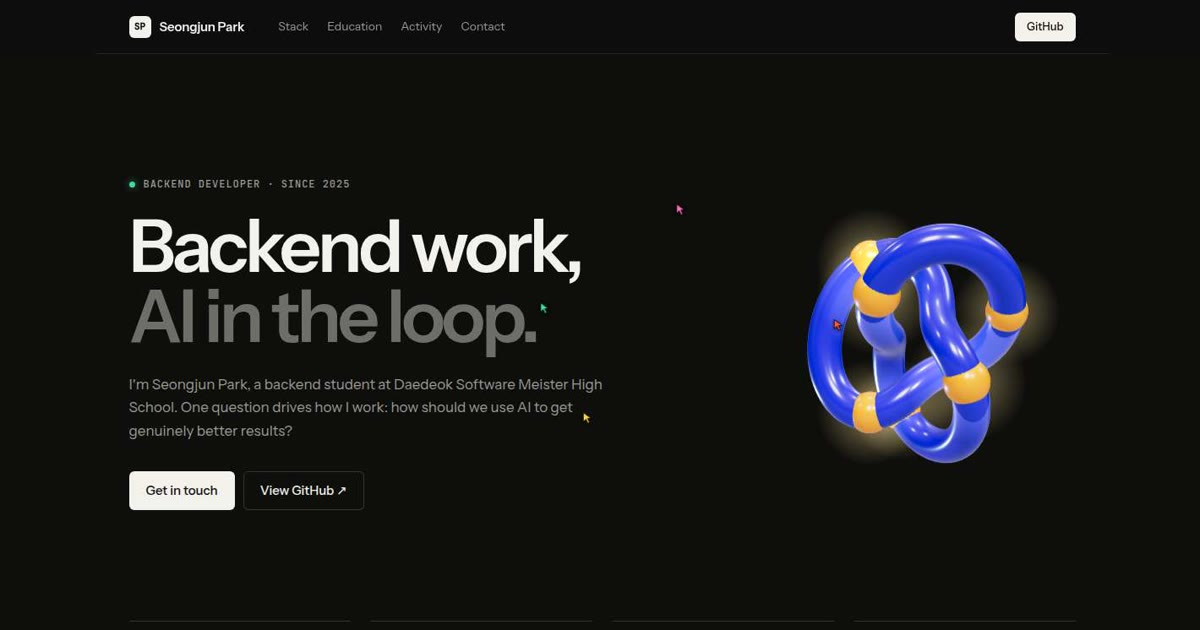
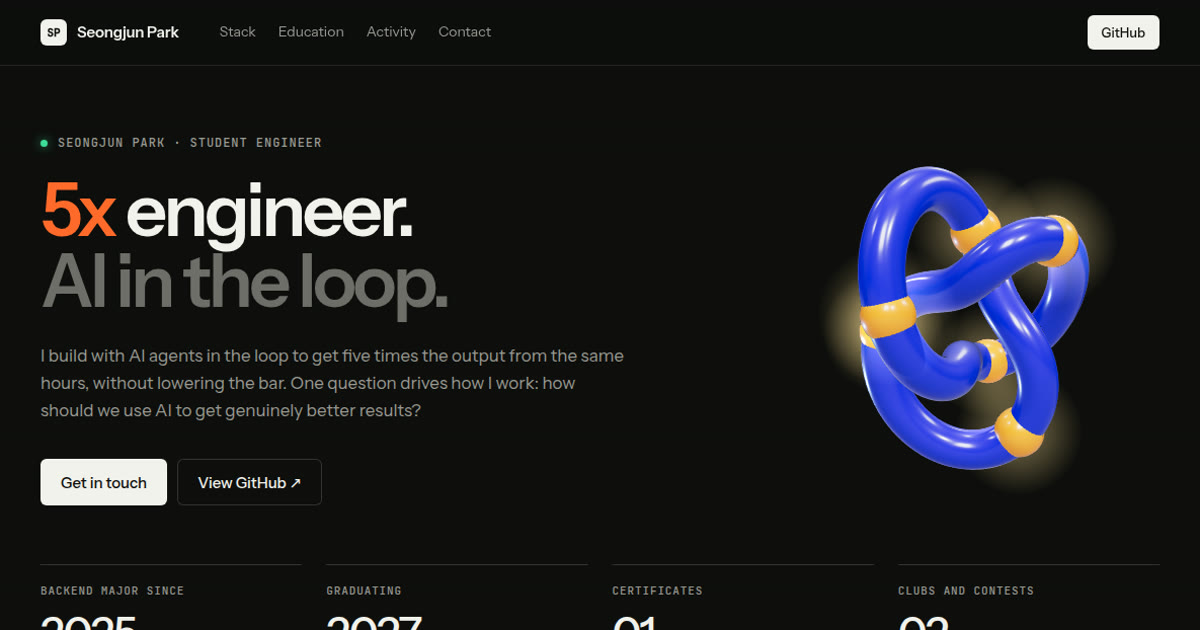
Hold each finished screen for 3s before scrolling; lead with '5x engineer' instead of 'backend developer'

diff --git a/index.html b/index.html
@@ -3,10 +3,10 @@
   <head>
     <meta charset="utf-8" />
     <meta name="viewport" content="width=device-width, initial-scale=1" />
-    <title>Seongjun Park · Backend Developer</title>
-    <meta name="description" content="Seongjun Park is a backend developer at Daedeok Software Meister High School who keeps asking how to use AI to get genuinely better results." />
+    <title>Seongjun Park · 5x Engineer</title>
+    <meta name="description" content="Seongjun Park is a 5x engineer: a student at Daedeok Software Meister High School who builds with AI agents in the loop to ship more, and better, than one person could alone." />
     <meta name="theme-color" content="#0e0e0d" />
-    <meta property="og:title" content="Seongjun Park · Backend Developer" />
+    <meta property="og:title" content="Seongjun Park · 5x Engineer" />
     <meta property="og:description" content="A portfolio that a swarm of cursor agents builds in front of you." />
     <meta property="og:type" content="website" />
     <meta property="og:url" content="https://seongj-un.github.io/" />
@@ -41,12 +41,12 @@
         <section class="hero" id="top" data-section="hero">
           <div class="wrap hero-grid">
             <div class="hero-copy">
-              <p class="eyebrow"><span class="dot" data-layer="block" data-label="dot"></span><span data-layer="type" data-label="p.eyebrow">Backend developer · since 2025</span></p>
+              <p class="eyebrow"><span class="dot" data-layer="block" data-label="dot"></span><span data-layer="type" data-label="p.eyebrow">Seongjun Park · student engineer</span></p>
               <h1 class="display">
-                <span class="line" data-layer="type" data-label="h1">Backend work,</span>
+                <span class="line" data-layer="type" data-label="h1"><span class="x5">5x</span> engineer.</span>
                 <span class="line dim" data-layer="type" data-label="h1">AI in the loop.</span>
               </h1>
-              <p class="lede" data-layer="sweep" data-label="p.lede">I'm Seongjun Park, a backend student at Daedeok Software Meister High School. One question drives how I work: how should we use AI to get genuinely better results?</p>
+              <p class="lede" data-layer="sweep" data-label="p.lede">I build with AI agents in the loop to get five times the output from the same hours, without lowering the bar. One question drives how I work: how should we use AI to get genuinely better results?</p>
               <div class="actions">
                 <a class="btn" href="#contact" data-layer="block" data-label="a.btn">Get in touch</a>
                 <a class="btn btn--ghost" href="https://github.com/seongj-un" target="_blank" rel="noopener" data-layer="block" data-label="a.btn">View GitHub ↗</a>
@@ -69,7 +69,7 @@
                 <p class="tag"><span class="tag-num" data-layer="type" data-label="span.tag">[01]</span><span data-layer="type" data-label="p.tag">Tech stack</span></p>
                 <h2 class="h2" id="stack-title"><span class="line" data-layer="type" data-label="h2">Tools I reach for</span><span class="line dim" data-layer="type" data-label="h2">when I build a service.</span></h2>
               </div>
-              <p class="sec-note" data-layer="sweep" data-label="p">The languages, frameworks and infrastructure I use to design, build and ship backend services.</p>
+              <p class="sec-note" data-layer="sweep" data-label="p">The languages, frameworks and infrastructure I use to design, build and ship services, with agents doing the legwork.</p>
             </div>
             <div class="cards">
               <article class="card" data-layer="frame" data-label="article.card" data-review><p class="card-k" data-layer="type" data-label="p">01 · Language</p><p class="card-v" data-layer="sweep" data-label="p">Java, Python</p></article>
@@ -140,7 +140,7 @@
             <div class="contact" data-layer="frame" data-label="section.contact">
               <div>
                 <p class="tag"><span class="tag-num" data-layer="type" data-label="span.tag">[04]</span><span data-layer="type" data-label="p.tag">Contact</span></p>
-                <h2 class="h2" id="contact-title"><span class="line" data-layer="type" data-label="h2">Have a backend problem</span><span class="line" data-layer="type" data-label="h2">worth thinking through?</span></h2>
+                <h2 class="h2" id="contact-title"><span class="line" data-layer="type" data-label="h2">Need something built,</span><span class="line" data-layer="type" data-label="h2">and built fast?</span></h2>
                 <p class="contact-note" data-layer="sweep" data-label="p">Email is the fastest way to reach me. I read everything and reply as soon as I can.</p>
               </div>
               <div class="contact-side">
@@ -160,7 +160,7 @@
           <div class="foot-grid" data-layer="rule" data-label="footer">
             <div>
               <p class="logo"><span class="logo-mark" data-layer="block" data-label="logo">SP</span><span data-layer="type" data-label="span">Seongjun Park</span></p>
-              <p class="foot-about" data-layer="sweep" data-label="p">Backend developer at Daedeok Software Meister High School, asking how AI can make the work better.</p>
+              <p class="foot-about" data-layer="sweep" data-label="p">5x engineer at Daedeok Software Meister High School, working with AI in the loop.</p>
             </div>
             <div>
               <p class="foot-k" data-layer="type" data-label="p">Sections</p>

diff --git a/src/builder.js b/src/builder.js
@@ -11,6 +11,8 @@
 const PALETTE = ['#f2f1ec', '#8fb8ff', '#f2f1ec', '#ffad85'];
 const ARROW = 'M1.5 1.5 L1.5 14 L5 10.6 L7.6 16 L10 15 L7.4 9.6 L12.4 9.6 Z';
 const PRI = { rule: 0, frame: 1, block: 2, type: 3, sweep: 4 };
+// how long a finished screen stays put before the director scrolls on
+const HOLD_MS = 3000;
 
 const sleep = (ms) => new Promise((r) => setTimeout(r, ms));
 const nextFrame = () => new Promise((r) => requestAnimationFrame(r));
@@ -399,6 +401,16 @@ export function createBuilder({ overlay, pill, page, count = 40, keep = 4, speed
   async function direct(run) {
     let current = null;
     let guide = null;
+    // pausable wait that ends early if the run is replaced or the visitor takes over scrolling
+    const hold = async (ms, r) => {
+      let left = ms;
+      while (left > 0 && alive(r) && auto) {
+        await gate();
+        const t = performance.now();
+        await sleep(Math.min(100, left));
+        left -= performance.now() - t;
+      }
+    };
     const closeSection = (sec) => {
       if (guide) { fade(guide, 500); guide = null; }
 
@@ -415,15 +427,23 @@ export function createBuilder({ overlay, pill, page, count = 40, keep = 4, speed
       let batch;
       if (auto) {
         const sec = sections.find((s) => rest.some((l) => s.contains(l)));
+        const own = rest.filter((l) => sec.contains(l)).sort((p, q) => docTop(p) - docTop(q));
+        const top = docTop(own[0]);
+        const fixedNav = sec.classList.contains('nav');
+        const needScroll = !fixedNav && (top < scrollY + navH() || top > scrollY + innerHeight - 140);
+        // let the visitor look at a finished screen before moving on
+        if (needScroll) {
+          if (inFlight.size) { await sleep(120); continue; }
+          await hold(HOLD_MS, run);
+          if (!alive(run)) return;
+          if (!auto) continue;
+        }
         if (sec !== current) {
           closeSection(current);
           current = sec;
           if (sec && !sec.classList.contains('nav')) guide = drawGuide(sec, run);
         }
-        const own = rest.filter((l) => sec.contains(l)).sort((p, q) => docTop(p) - docTop(q));
-        const top = docTop(own[0]);
-        const fixedNav = sec.classList.contains('nav');
-        if (!fixedNav && (top < scrollY + navH() || top > scrollY + innerHeight - 140)) {
+        if (needScroll) {
           await smoothScroll(top - navH() - 40, 750 * S, run);
           if (!alive(run)) return;
         }
@@ -454,7 +474,7 @@ export function createBuilder({ overlay, pill, page, count = 40, keep = 4, speed
     updatePill();
     disperse();
     if (natural && auto && run === runId) {
-      setTimeout(() => { if (!running) smoothScroll(0, 1500, -1); }, 900);
+      setTimeout(() => { if (!running) smoothScroll(0, 1500, -1); }, HOLD_MS);
     }
   }
 

diff --git a/src/style.css b/src/style.css
@@ -67,6 +67,7 @@ button { font: inherit; color: inherit; }
 .display { margin: 0 0 26px; font-weight: 600; font-size: clamp(46px, 6vw, 92px); line-height: 0.96; letter-spacing: -0.05em; }
 .line { display: block; }
 .dim { color: var(--dim); }
+.x5 { color: var(--accent); }
 .lede { margin: 0 0 34px; max-width: 34em; font-size: 17px; line-height: 1.6; color: var(--muted); text-wrap: pretty; }
 .actions { display: flex; gap: 10px; flex-wrap: wrap; }
 

diff --git a/README.md b/README.md
@@ -1,6 +1,6 @@
 # seongj-un.github.io
 
-Portfolio of Seongjun Park (박성준), backend developer.
+Portfolio of Seongjun Park (박성준), 5x engineer.
 
 The page is built live in front of the visitor by a small crew of cursor agents (10 on desktop, 8 on phones): they drag out wireframes, fill grey placeholders, type headings and sweep-select paragraphs, scrolling down section by section. Only agents with work are on screen; an idle one fades out where it stopped and every agent leaves once the page is done. The pill at the bottom shows progress and lets you pause, skip, replay or hide the agents.
 
